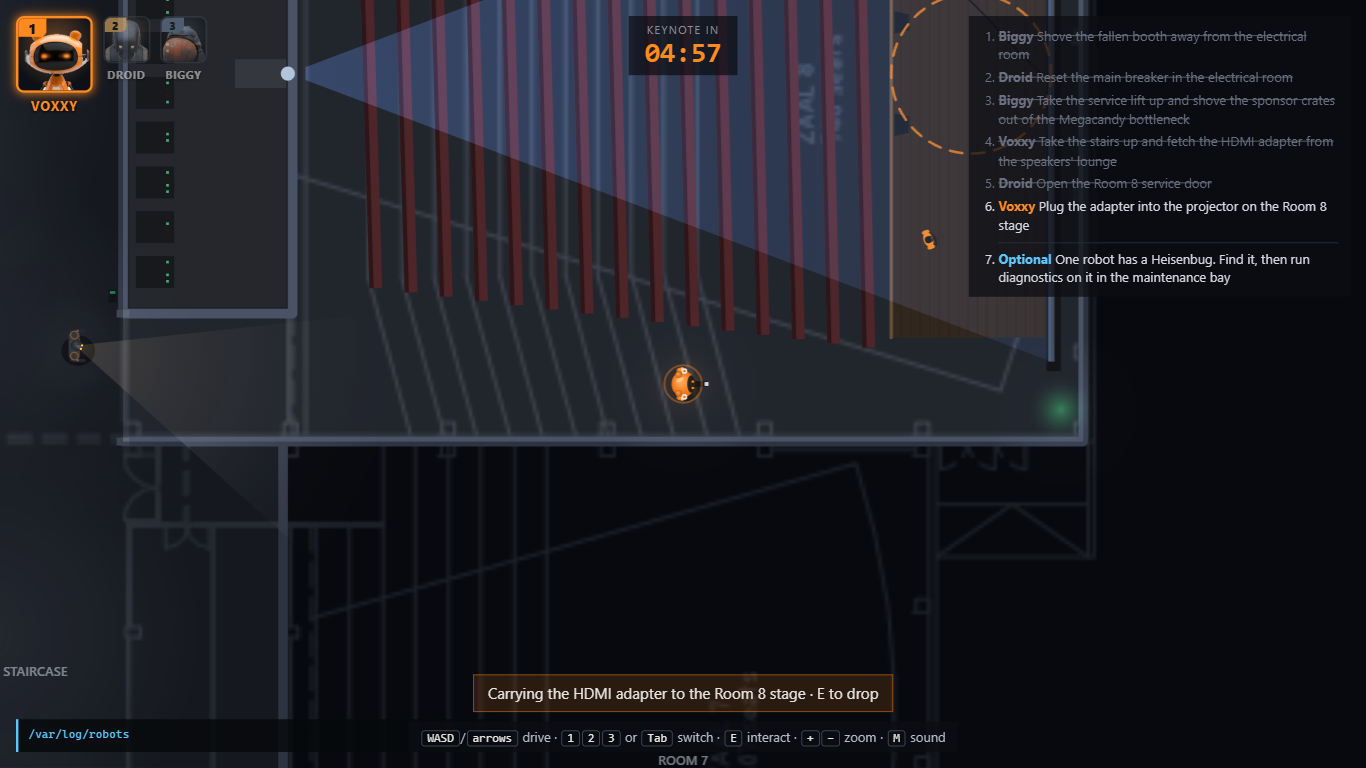
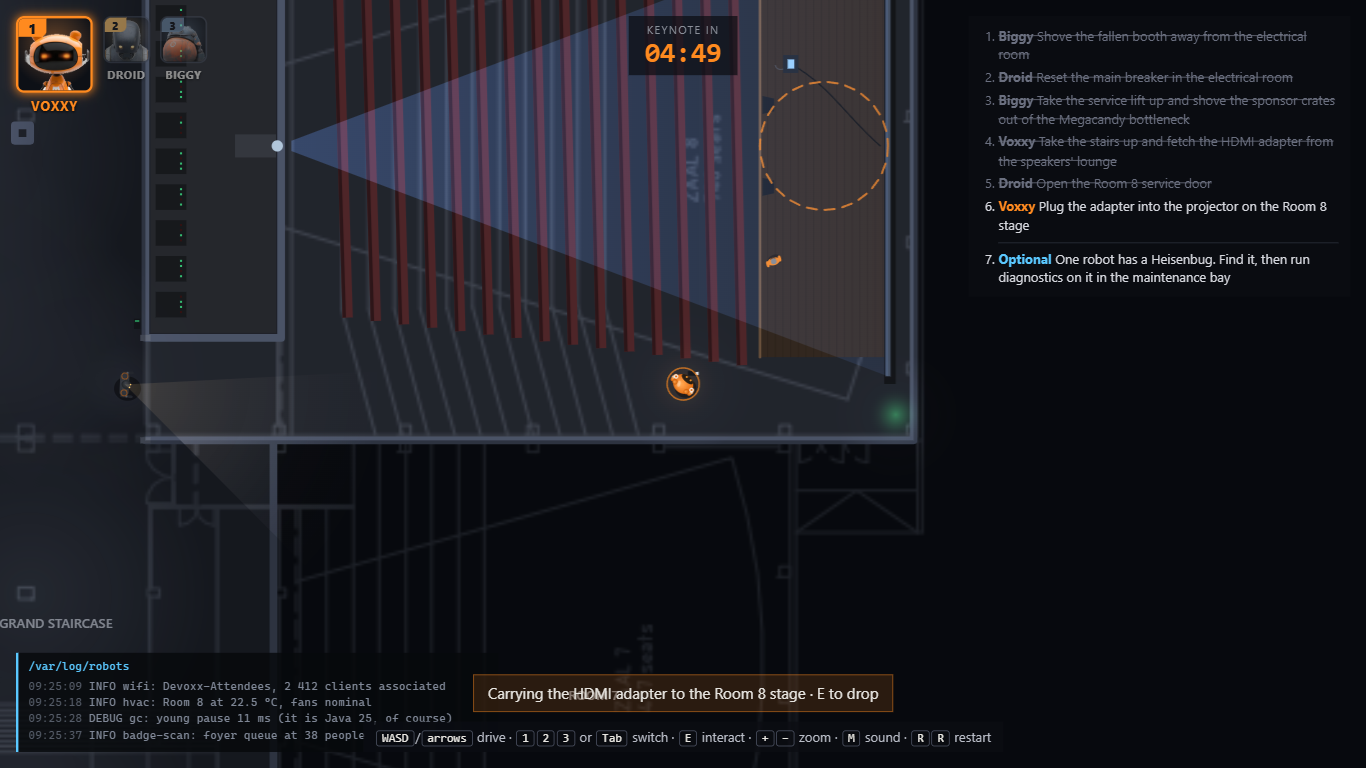
NO_TICKET: Retake the Room 8 screenshot with the current HUD
Staged from a headless run just before delivery; the stage is now clear
of the objectives panel.

Changed region(s): [[0.0, 0.0, 0.7994, 1.0], [0.0, 0.1562, 0.0307, 0.1875]]

diff --git a/docs/GENAI.md b/docs/GENAI.md
@@ -432,3 +432,5 @@ screenshot".
 - Caught by hand afterwards: the exhibition-hall screenshot showed the breaker reset while the
   booth still blocked the electrical room — also unreachable. Retaken with the power off, Biggy at
   the booth and Droid's torch on it, from a headless run of the real opening.
+- The Room 8 screenshot was retaken the same way (from the autopilot run just before delivery) so
+  all three README images show the current HUD, including the `R R restart` hint.
